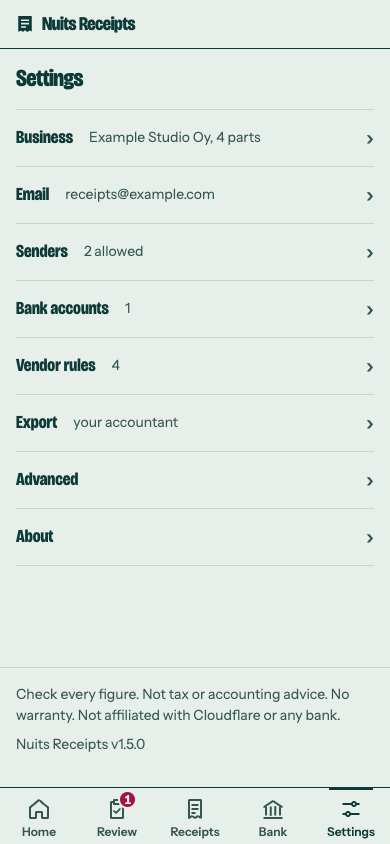
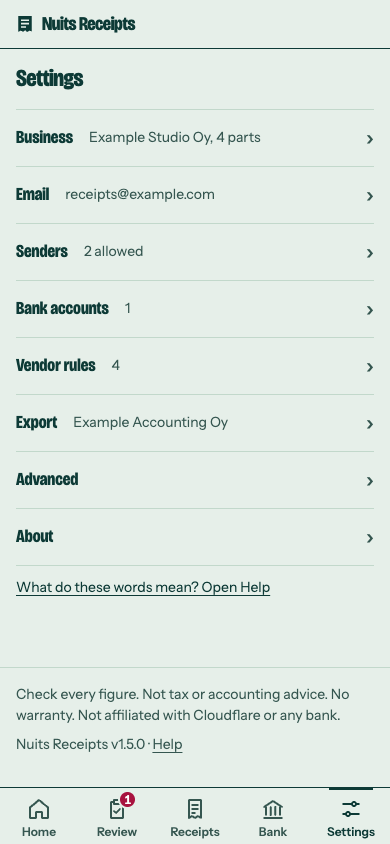
test(journeys): first run sets the accountant from the checklist, tour adds help and home-setup, record the run

Changed region(s): [[0.0308, 0.6777, 0.7077, 0.7085], [0.1846, 0.4929, 0.5846, 0.5237], [0.3692, 0.8626, 0.4615, 0.8934]]

diff --git a/docs/app-v3/after/RESULTS.md b/docs/app-v3/after/RESULTS.md
@@ -6,7 +6,7 @@ Instance: fresh local database, mock AI, 2026-10-24.
 
 | Journey | Clicks | Field edits | Screens | POSTs with no feedback | Dead-end error pages | Errors fixed in place |
 | --- | --- | --- | --- | --- | --- | --- |
-| d. First run to first receipt read | 2 | 1 | 2 | 0 | 0 | 0 |
+| d. First run to first receipt read | 5 | 2 | 5 | 0 | 0 | 0 |
 | a. Mail arrives, every receipt approved | 6 | 9 | 5 | 0 | 0 | 0 |
 | b. Bank statement imported, every payment settled | 6 | 1 | 6 | 0 | 0 | 0 |
 | e. Sales invoice added, money in matched | 5 | 1 | 4 | 0 | 0 | 0 |
@@ -14,17 +14,18 @@ Instance: fresh local database, mock AI, 2026-10-24.
 
 ### d. First run to first receipt read
 
-Screens: `/` → `/receipts/:id?done=uploaded`
+Screens: `/` → `/receipts/:id?done=uploaded` → `/` → `/settings` → `/settings?done=settingsSaved&group=accountant`
 
-- Welcome screen says: Welcome Done: Business Done Done: Email Done To do: Accountant Set up Receipt (PDF or photo) Upload Add several Or forward to receipts@example.com
+- Welcome screen says: Welcome Finish setting up 1 of 5 done Done: Business name added So invoices you send are told apart from receipts. Next: Confirm Email Routing in Cloudflare The
 - Landed on /receipts/:id with title "Sample Cloud Lantern Oy"
-- No accountant step on Home after the first receipt.
+- Home after the first receipt: Finish setting up 1 of 5 done Done: Business name added So invoices you send are told apart from receipts. Next: Confirm Email Routing in Cloudflare Then forward one receipt to check it. A receipt that arrives by email c
+- Saved: Saved your accountant.
 
 ### a. Mail arrives, every receipt approved
 
 Screens: `/` → `/review` → `/receipts/:id` → `/receipts/:id?done=approved` → `/review?done=approvedLast&month=2026-09&step=import`
 
-- Home on arrival (oldest month not sent): ‹ Aug September 2026 Oct › September isn't sent yet. 2 receipts need you, plus 1 undated receipt. · Go to October Next: Check 2 to check, 1 undated To do: Match No statement To do: Send Not ready Chec
+- Home on arrival (oldest month not sent): ‹ Aug September 2026 Oct › Finish setting up 3 of 5 done Done: Business name added So invoices you send are told apart from receipts. Done: Email Routing confirmed A receipt arrived by email, so it wo
 - Review lists 3 receipts.
 - Approved 3: Sample Coffee Corner, Sample Train Line, Sample Print Shop. Ended on /review.
 
@@ -34,7 +35,7 @@ Screens: `/payments` → `/import` → `/imports/csv` → `/payments?month=2026-
 
 - After import: 5 out, 3 matched, 2 missing
 - Import banner: Added 6 payments. We matched 3 for you. See them
-- DOMAINDESK offers: Match anyway. This pair isn't exact: the names don't look alike. "Match anyway" says that is fine.
+- DOMAINDESK offers: Match anyway. This pair isn't exact: the names don't look alike. "Match anyway" says that is fine. What is this?
 - Finally: 5 out, 4 matched, 0 missing
 
 ### e. Sales invoice added, money in matched
@@ -46,7 +47,7 @@ Screens: `/receipts` → `/invoices` → `/add?kind=sales` → `/payments`
 
 ### c. September closed and marked sent
 
-Screens: `/` → `/?month=2026-09&done=sent&at=2026-10-24T15%3A40%3A17.617Z`
+Screens: `/` → `/?month=2026-09&done=sent&at=2026-10-24T15%3A57%3A58.207Z`
 
 - Home on arrival (September, the oldest month not sent): ‹ Aug September 2026 Oct › September isn't sent yet. It is ready to send. · Go to October Done: Check Done Done: Match Done Next: Send Ready Spent EUR 250.22 Download ZIP (4 KB) CSV Check every row be
 - Downloaded receipts-2026-09.zip
@@ -83,3 +84,9 @@ Screens: `/` → `/?month=2026-09&done=sent&at=2026-10-24T15%3A40%3A17.617Z`
 | [settings](screens/settings-390.png) | 390 | 1 | 0 |
 | [bank-likely](screens/bank-likely-1440.png) | 1440 | 2.77 | 0 |
 | [bank-likely](screens/bank-likely-390.png) | 390 | 2.98 | 0 |
+| [help](screens/help-1440.png) | 1440 | 1.66 | 0 |
+| [help](screens/help-390.png) | 390 | 2.2 | 0 |
+| [help-flags](screens/help-flags-1440.png) | 1440 | 1.86 | 0 |
+| [help-flags](screens/help-flags-390.png) | 390 | 2.5 | 0 |
+| [home-setup](screens/home-setup-1440.png) | 1440 | 1.72 | 0 |
+| [home-setup](screens/home-setup-390.png) | 390 | 1.93 | 0 |
